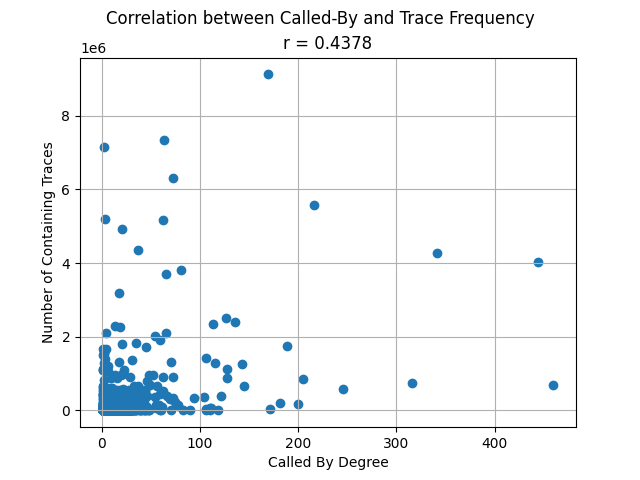
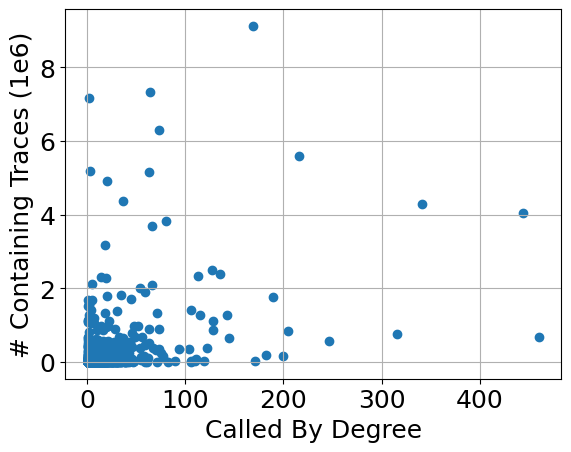
fix up plotting for report

diff --git a/src/aggregate_dependency_analysis.py b/src/aggregate_dependency_analysis.py
@@ -40,34 +40,39 @@ def plot_death_star(calling, called_by):
 
 
 def plot_trace_histogram(traces):
+    s = 24
     print(sum(v < 10000 for v in traces.values()), max(traces.values()))
     path = os.path.join(c.RESULT_FOLDER, CALL_DISTRIBUTIONS, 'traces.png')
     c.prep_path(path)
     plt.figure()
     d = list(traces.values())
     plt.hist(d, bins=200)
-    plt.suptitle("Distribution of Microservice Trace Occurrence")
-    plt.title(f"Minimum Occurrence Count={min(d)}, Maximum={max(d)}")
-    plt.xlabel("Number of Traces Microservice Occurred In")
-    plt.ylabel("Frequency")
+    plt.suptitle("Distribution of Microservice Trace Occurrence", fontsize=s)
+    plt.title(f"Minimum Occurrence Count={min(d)}, Maximum={max(d)}", fontsize=s)
+    plt.xlabel("Number of Traces Microservice Occurred In", fontsize=s)
+    plt.ylabel("Frequency", fontsize=s)
     plt.grid()
-    plt.savefig(path)
+    plt.savefig(path, bbox_inches='tight')
 
 
 def plot_call_histograms(called_by, calling):
+    s = 18
     paths = (os.path.join(c.RESULT_FOLDER, CALL_DISTRIBUTIONS, p)
              for p in ('called_by.png', 'calling.png'))
     for p, n, g in zip(paths, ('Called By', 'Calling'), (called_by, calling)):
         c.prep_path(p)
         plt.figure()
         d = [len(v) for v in g.values()]
-        plt.hist(d, bins=200)
-        plt.suptitle(n + " Distribution")
-        plt.title(f"Minimum {n} Count={min(d)}, Maximum={max(d)}")
-        plt.xlabel(n)
-        plt.ylabel("Frequency")
+        plt.hist(d, bins=200, density=True)
+        print(f"Minimum {n} Count={min(d)}, Maximum={max(d)}")
+        plt.xlabel(n + " Count", fontsize=s)
+        plt.ylabel("Normalized Frequency", fontsize=s)
+        if n == "Calling":
+            plt.yticks([0, 0.1, 0.2])
         plt.grid()
-        plt.savefig(p)
+        plt.tick_params('y', labelsize=s)
+        plt.tick_params('x', labelsize=s)
+        plt.savefig(p, bbox_inches='tight')
 
 
 def calculate_sparsity_ratio(count_microservices, called_by):
@@ -112,6 +117,7 @@ def calculate_connected_components(called_by, calling):
 
 
 def calculate_correlation(called_by, calling, traces):
+    s = 18
     paths = [os.path.join(c.RESULT_FOLDER, CORRELATIONS, p)
              for p in ('called_by_and_trace_freq.png', 'calling_and_trace_freq.png')]
     c.prep_path(paths[0])
@@ -120,28 +126,30 @@ def calculate_correlation(called_by, calling, traces):
     y1 = list()
     for k, v in called_by.items():
         x1.append(len(v))
-        y1.append(traces[k])
+        y1.append(traces[k]/1e6)
     plt.figure()
-    plt.xlabel("Called By Degree")
-    plt.ylabel("Number of Containing Traces")
+    plt.xlabel("Called By Degree", fontsize=s)
+    plt.ylabel("# Containing Traces (1e6)", fontsize=s)
+    plt.tick_params('y', labelsize=s)
+    plt.tick_params('x', labelsize=s)
     plt.scatter(x1, y1)
-    plt.suptitle("Correlation between Called-By and Trace Frequency")
-    plt.title(f"r = {pearsonr(x1, y1)[0]:.4f}")
+    print(f"r = {pearsonr(x1, y1)[0]:.4f}")
     plt.grid()
-    plt.savefig(paths[0])
+    plt.savefig(paths[0], bbox_inches='tight')
     x2 = list()
     y2 = list()
     for k, v in calling.items():
         x2.append(len(v))
-        y2.append(traces[k])
+        y2.append(traces[k]/1e6)
     plt.figure()
-    plt.xlabel("Calling Degree")
-    plt.ylabel("Number of Containing Traces")
+    plt.xlabel("Calling Degree", fontsize=s)
+    plt.ylabel("# Containing Traces (1e6)", fontsize=s)
+    plt.tick_params('y', labelsize=s)
+    plt.tick_params('x', labelsize=s)
     plt.scatter(x2, y2)
-    plt.suptitle("Correlation between Calling and Trace Frequency")
-    plt.title(f"r = {pearsonr(x2, y2)[0]:.4f}")
+    print(f"r = {pearsonr(x2, y2)[0]:.4f}")
     plt.grid()
-    plt.savefig(paths[1])
+    plt.savefig(paths[1], bbox_inches='tight')
 
 
 def main():

diff --git a/src/trace_plots.py b/src/trace_plots.py
@@ -5,30 +5,33 @@ import time
 
 
 def plot_concurrency_histogram(concurrencies):
-    path = os.path.join(c.RESULT_FOLDER, c.TRACES, 'concurrencies.png')
-    c.prep_path(path)
-    plt.figure()
-    plt.hist(concurrencies, bins=200)
-    plt.suptitle("Distribution of Maximum Trace Concurrencies")
-    plt.title(
-        f"Minimum Concurrency={min(concurrencies)}, Maximum={max(concurrencies)}")
-    plt.xlabel("Concurrency Width")
-    plt.ylabel("Frequency")
-    plt.grid()
-    plt.savefig(path)
+    print(f"Minimum Width={min(concurrencies)}, Maximum={max(concurrencies)}")
+    # s = 18
+    # path = os.path.join(c.RESULT_FOLDER, c.TRACES, 'concurrencies.png')
+    # c.prep_path(path)
+    # plt.figure()
+    # plt.hist(concurrencies, bins=200)
+    # plt.xlabel("Width", fontsize=s)
+    # plt.ylabel("Frequency", fontsize=s)
+    # plt.tick_params('y', labelsize=s)
+    # plt.tick_params('x', labelsize=s)
+    # plt.grid()
+    # plt.savefig(path)
 
 
 def plot_depth_histogram(depth):
+    s = 18
     path = os.path.join(c.RESULT_FOLDER, c.TRACES, 'depths.png')
     c.prep_path(path)
     plt.figure()
-    plt.hist(depth, bins=30)
-    plt.suptitle("Distribution of Trace Depths")
-    plt.title(f"Minimum Depth={min(depth)}, Maximum={max(depth)}")
-    plt.xlabel("Depth")
-    plt.ylabel("Frequency")
+    plt.hist(depth, density=True, bins=40)
+    print(f"Minimum Depth={min(depth)}, Maximum={max(depth)}")
+    plt.xlabel("Depth", fontsize=s)
+    plt.ylabel("Normalized Frequency", fontsize=s)
+    plt.tick_params('y', labelsize=s)
+    plt.tick_params('x', labelsize=s)
     plt.grid()
-    plt.savefig(path)
+    plt.savefig(path, bbox_inches='tight')
 
 
 def main():
@@ -37,13 +40,13 @@ def main():
         c.CONCURRENCIES_AND_DEPTHS_FILE)
     concurrencies = [e[0] for ls in concurrencies_depths for e in ls]
     depths = [e[1] for ls in concurrencies_depths for e in ls]
-    print(sum(cn < 2 for cn in concurrencies))
-    # ti = time.time()
-    # plot_concurrency_histogram(concurrencies)
-    # print(f"concurrencies plotted {c.prettytime(time.time() - ti)}")
-    # ti = time.time()
-    # plot_depth_histogram(depths)
-    # print(f"depths plotted {c.prettytime(time.time() - ti)}")
+    # print(sum(cn < 2 for cn in concurrencies))
+    ti = time.time()
+    plot_concurrency_histogram(concurrencies)
+    print(f"concurrencies plotted {c.prettytime(time.time() - ti)}")
+    ti = time.time()
+    plot_depth_histogram(depths)
+    print(f"depths plotted {c.prettytime(time.time() - ti)}")
 
 
 if __name__ == '__main__':

diff --git a/src/find_concurrencies_depths.py b/src/find_concurrencies_depths.py
@@ -4,12 +4,12 @@ import collect_traces as ct
 
 
 def per_file_func(f):
-    return [ct.get_max_concurrency_and_depth(trace) for (trace, _) in c.read_result_object(f)]
+    return [ct.get_max_concurrency_and_depth(g.trace) for g in c.read_result_object(f)]
 
 
 def main():
     files = [e.path for e in os.scandir(
-        os.path.join(c.RESULT_FOLDER, c.GRAPHS)) if e.is_file() and e.name.endswith('.pkl')]
+        os.path.join(c.RESULT_FOLDER, c.GRAPHS_V2)) if e.is_file() and e.name.endswith('.pkl')]
     results = c.run_func_on_data_files(
         per_file_func, fileset=c.get_idxs(), files=files)
     c.save_result_object(c.CONCURRENCIES_AND_DEPTHS_FILE, results)

diff --git a/src/collect_traces.py b/src/collect_traces.py
@@ -239,4 +239,4 @@ def get_max_concurrency_and_depth(trace):
         for rootidx in roots:
             if isancestor(c.rpc(row), c.rpc(trace[rootidx])):
                 trees[c.rpc(trace[rootidx])].append(c.rpc(row))
-    return max(get_max_concurrency(tree) for tree in trees.values()), max(get_depth(tree) for tree in trees.values())
+    return (1,1) if len(trees) == 0 else (max(get_max_concurrency(tree) for tree in trees.values()), max(get_depth(tree) for tree in trees.values()))

diff --git a/src/build_aggregate_dependencies.py b/src/build_aggregate_dependencies.py
@@ -53,7 +53,7 @@ def get_all_from_file(name):
 
 def get_from_each_file():
     results = c.run_func_on_data_files(
-        get_all_from_file, concurrency=len(c.get_csvs()))
+        get_all_from_file)
     called_by, calling, traces, microservices = dict(), dict(), dict(), set()
     total_rows, retained_rows = 0, 0
     for (result, result_total_rows, result_retained_rows) in tqdm(results, desc="Merging Graph, Trace, Microservice Data (single process)", total=len(results)):
